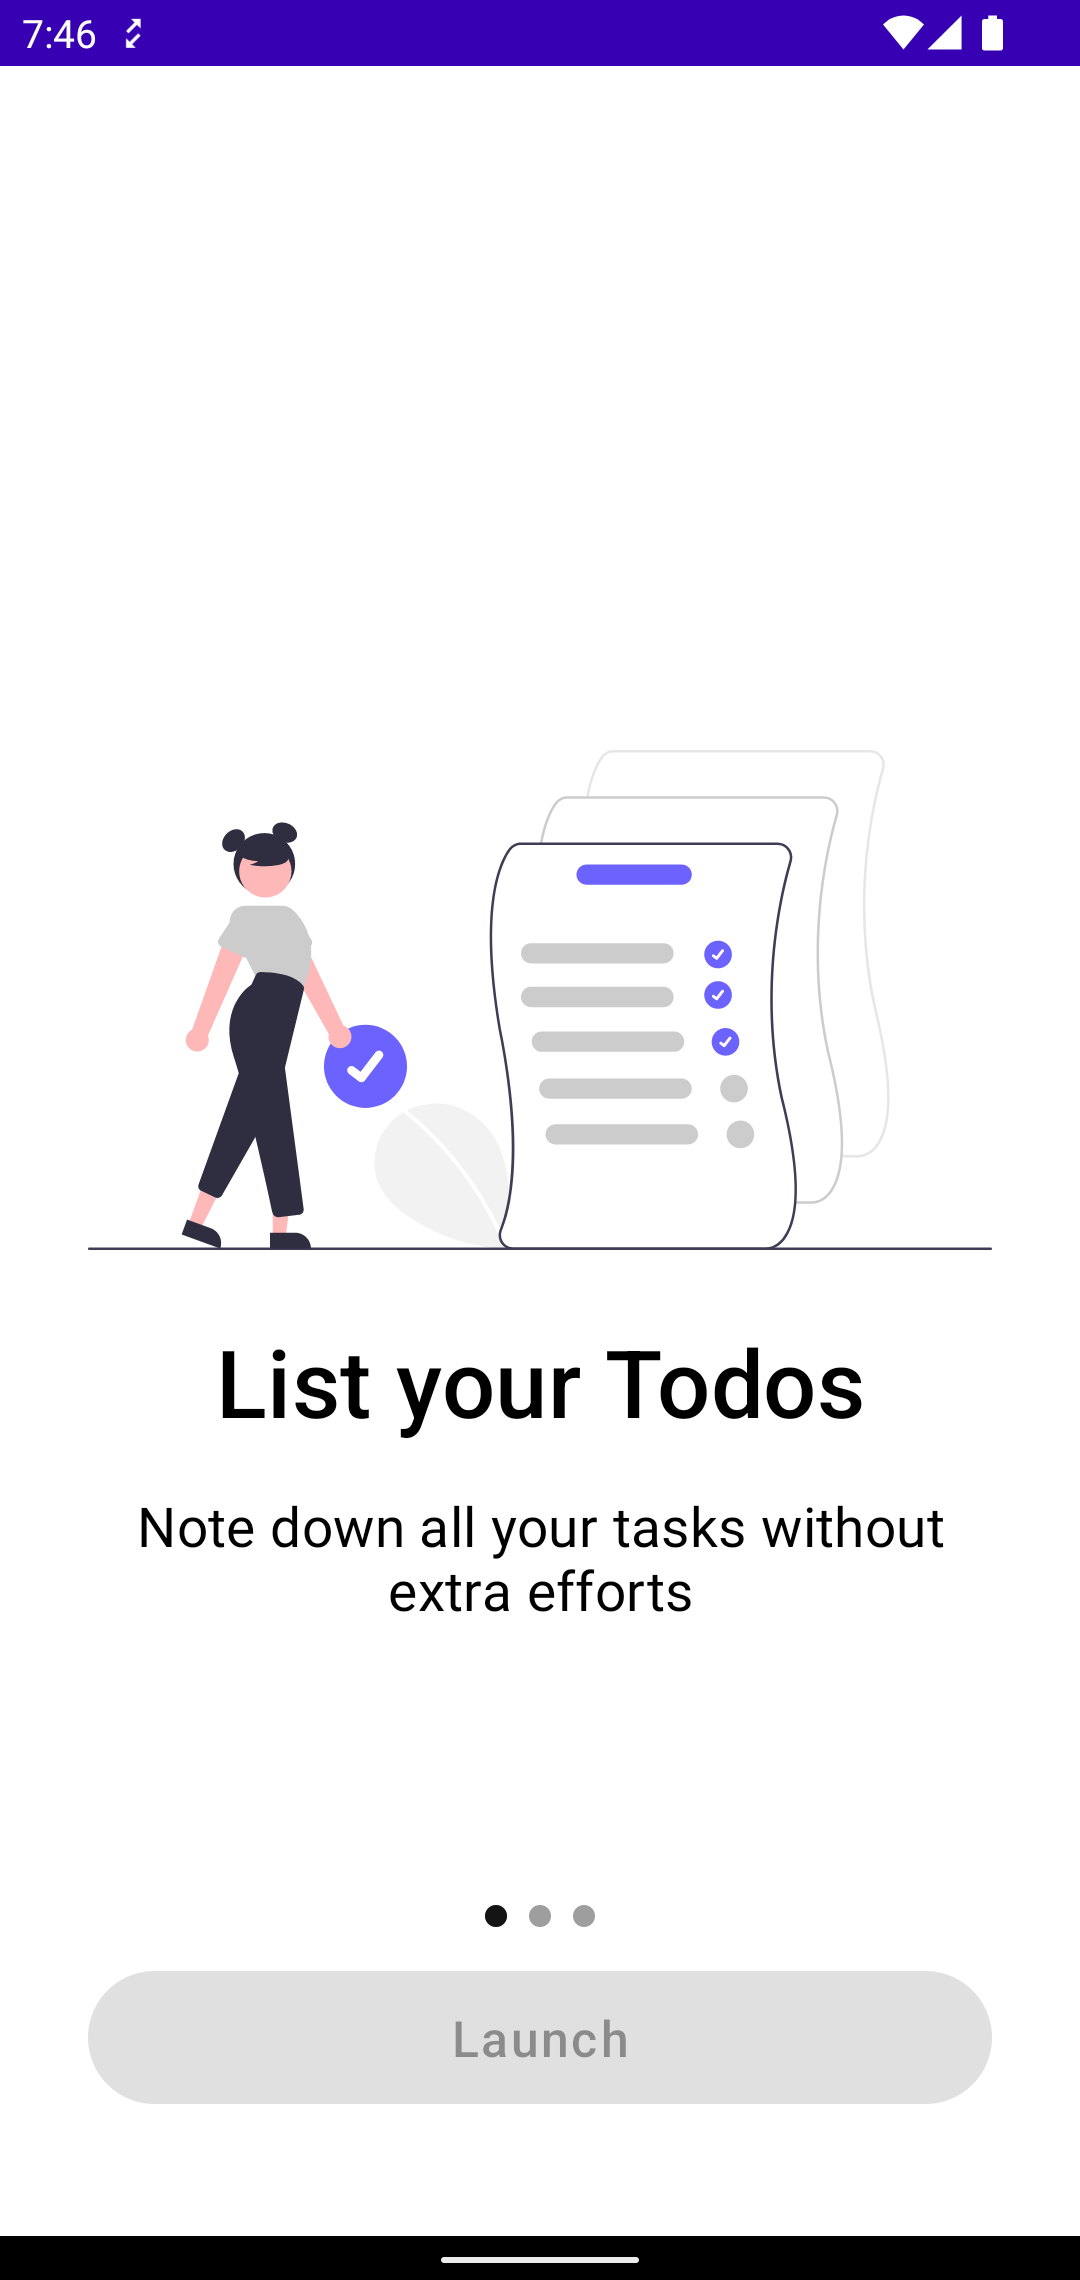
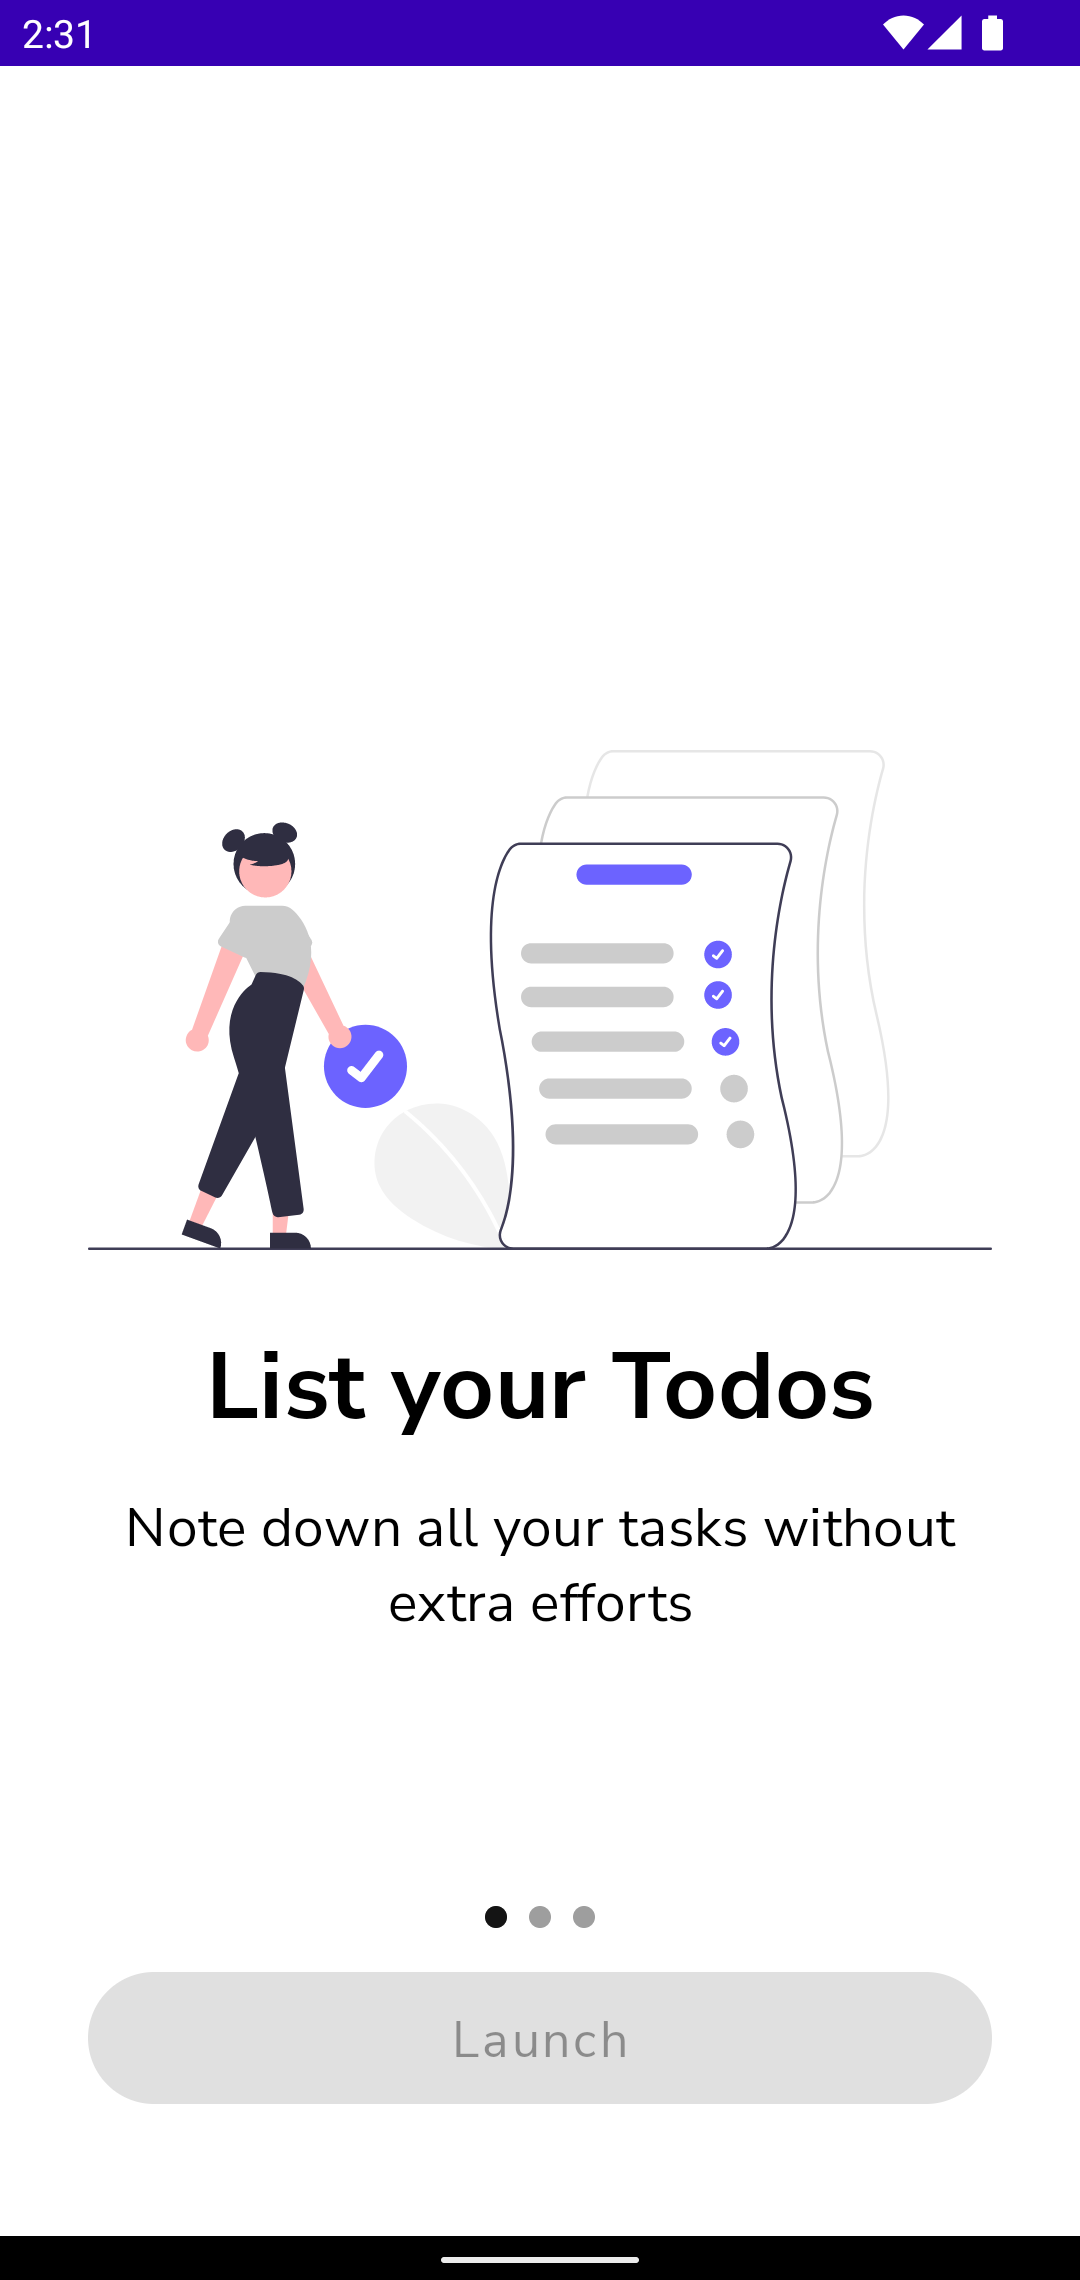
update onboarding title's font weight, screenshots

diff --git a/features/onboarding/src/main/java/com/fayaz/todo_jc/features/onboarding/ui/OnboardingPage.kt b/features/onboarding/src/main/java/com/fayaz/todo_jc/features/onboarding/ui/OnboardingPage.kt
@@ -42,7 +42,7 @@ fun OnboardingPage(item: OnboardingDataModel) {
     )
     Text(
       text = item.title,
-      style = MaterialTheme.typography.h4.copy(fontWeight = FontWeight.Medium)
+      style = MaterialTheme.typography.h4.copy(fontWeight = FontWeight.Bold)
         .color(MaterialTheme.colors.onBackground),
       textAlign = TextAlign.Center,
       maxLines = 1,
